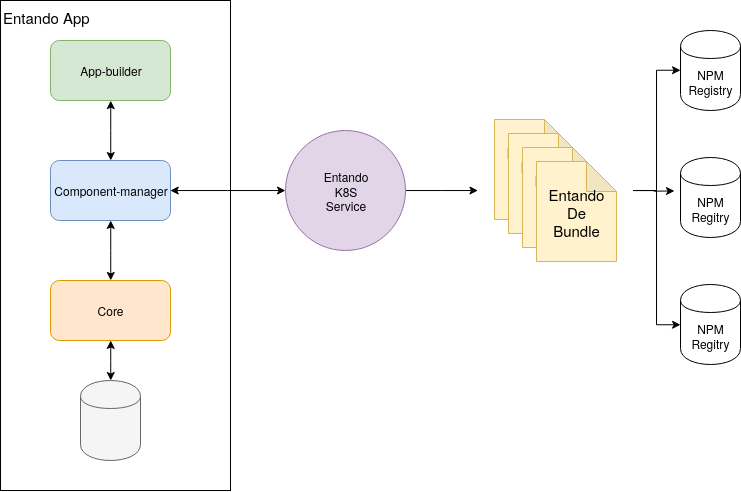
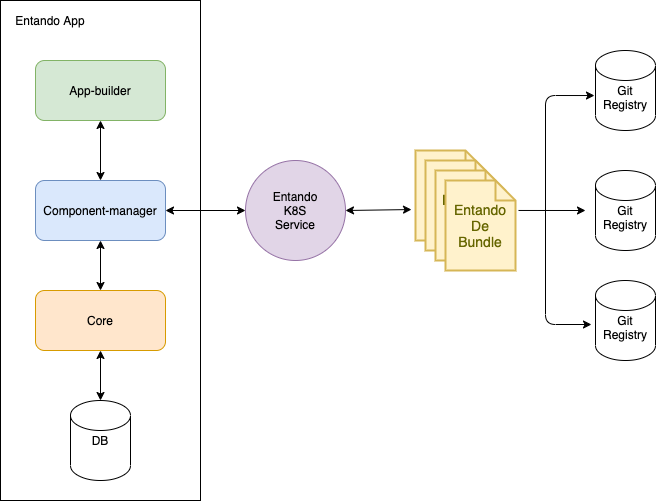
ENG-979 - updated AppBuilder ECR architecture image - changed "NPM" occurrences with "Git" - updated numbered list format

diff --git a/vuepress/docs/next/tutorials/ecr/ecr-overview.md b/vuepress/docs/next/tutorials/ecr/ecr-overview.md
@@ -20,7 +20,7 @@ content-types, labels, plugins, and static resources
 
 An ECR bundle - is a package containing one or more components and a
 'descriptor.yaml' file providing information about the bundle. The
-bundle is published on an NPM registry and is shared with an Entando
+bundle is published on an Git registry and is shared with an Entando
 application using the EntandoDeBundle custom resource.
 
 ### EntandoDeBundle custom resource
@@ -49,11 +49,11 @@ responsible for the low-level communication with the K8S cluster API.
 
 ![ECR Architecture](./img/ecr-architecture.png)
 
-From an architectural point of view, the ECR is composed of 1. The
-EntandoDeBundles which contain the metadata associated with a bundle 2.
-The Entando-k8s-service which reads the bundles from the
-cluster/namspace(s) and serves them via a consumable API 3. The
-Component-manager which creates the connection between the EntandoApp
+From an architectural point of view, the ECR is composed of 
+1. The EntandoDeBundles which contain the metadata associated with a bundle
+2. The Entando-k8s-service which reads the bundles from the
+cluster/namspace(s) and serves them via a consumable API 
+3. The Component-manager which creates the connection between the EntandoApp
 and the K8S-service.
 
 ## Example flow
